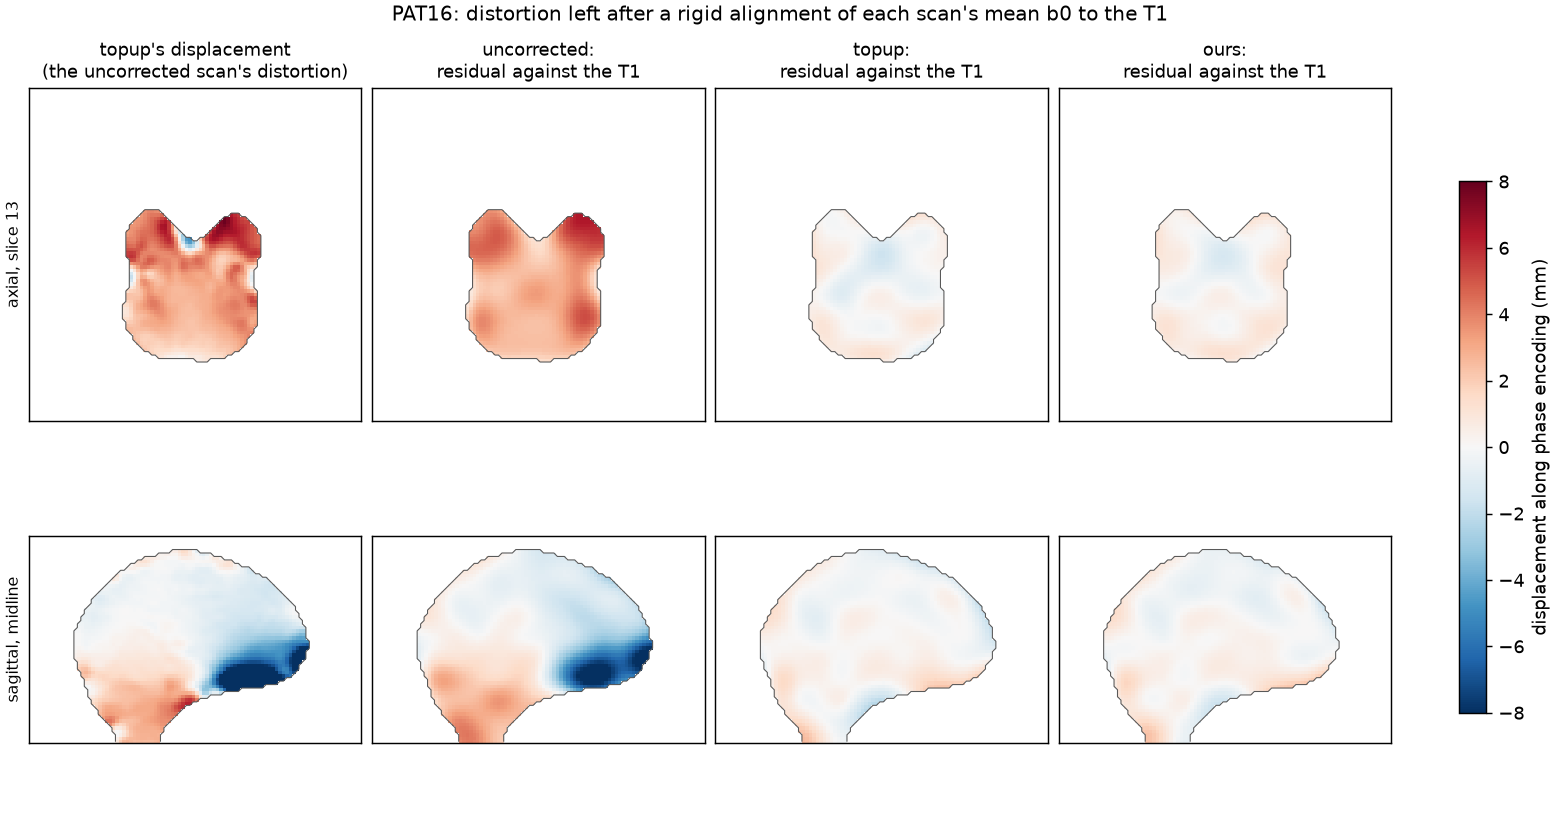
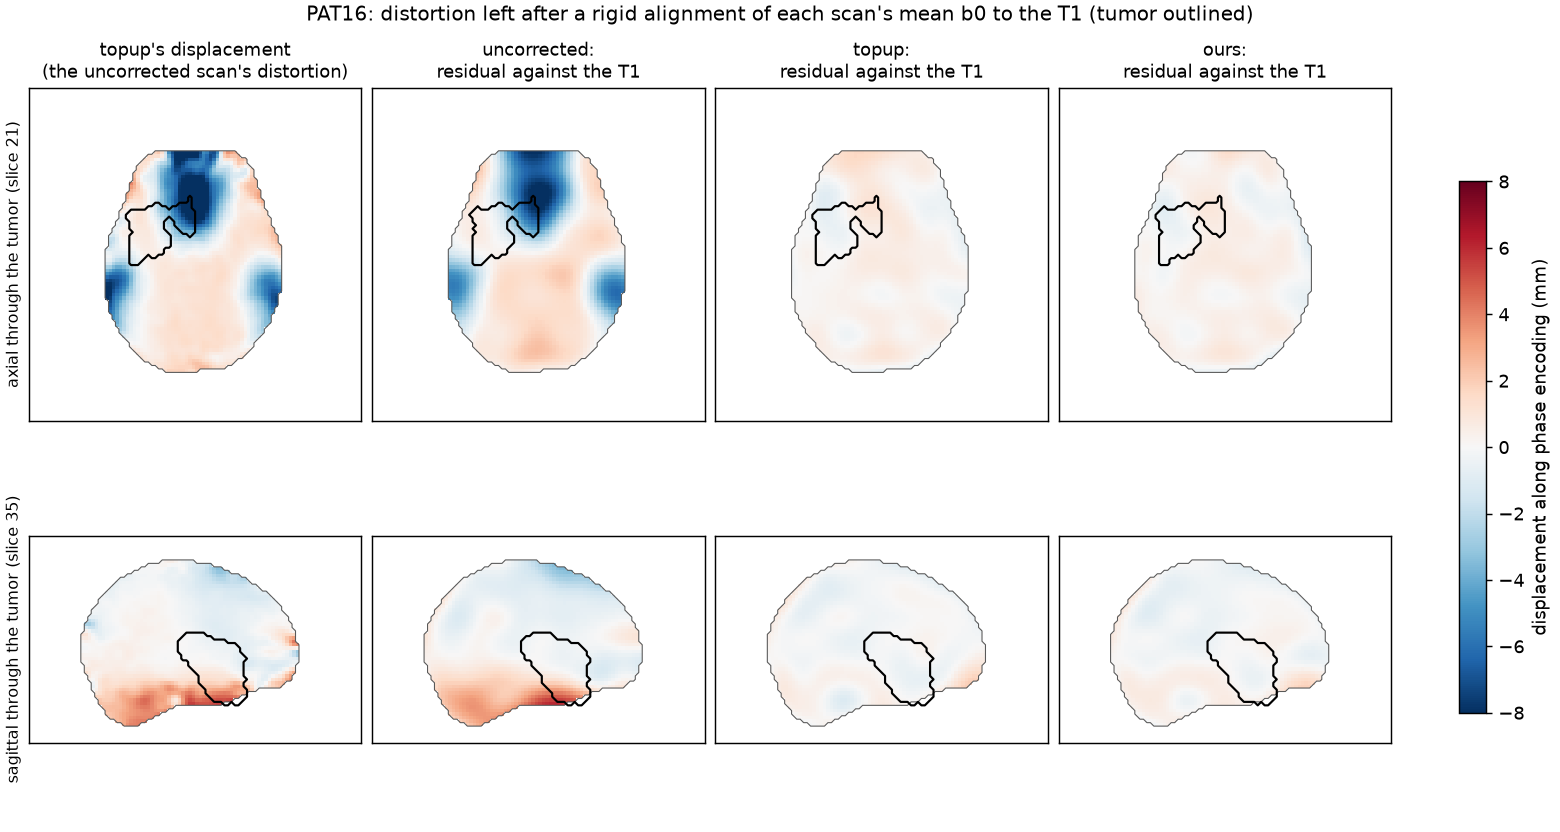
tractography: PAT16's tumor borders both distortion lobes; uncorrected its margin is off by up to 16 mm, corrected under 2

diff --git a/t1_alignment.py b/t1_alignment.py
@@ -17,14 +17,18 @@ would be off by.
   - validation: the uncorrected arm's d against topup's own displacement (field x readout x voxel):
     if the T1 recovers topup's map independently, the measure measures distortion;
   - precision: the fit repeated on b0s 1-3 and 4-6 separately, |d_a - d_b| / 2 the error of one;
-  - regions: inside the topup arm's brain mask, where topup displaces > 3 mm and elsewhere.
+  - regions: inside the topup arm's brain mask, where topup displaces > 3 mm and elsewhere; the
+    tumor (ds001226 derivatives/tumor_masks, manual + disconnectome, on the T1; its array is stored
+    left-right flipped against the T1's with a header to match: read by its header it covers the
+    hypointense lesion, by voxel order the healthy mirror) and a 10 mm margin around it, each
+    carried onto the b0 grid by the arm's own rigid fit.
 
 Writes results/t1_alignment.json and results/t1_alignment.png.
 """
 import json, time
 from pathlib import Path
 import numpy as np, nibabel as nib, nrrd
-from scipy.ndimage import binary_dilation
+from scipy.ndimage import binary_dilation, affine_transform, distance_transform_edt
 import torch
 import _susc as S
 
@@ -55,6 +59,11 @@ side = json.loads((SUB / "dwi/sub-PAT16_ses-preop_acq-AP_dwi.json").read_text())
 h_topup = np.asarray(nib.load(DER / "PAT16/topup/field_hz.nii.gz").dataobj, dtype=np.float64)
 d_topup = -1 * side["TotalReadoutTime"] * h_topup * vox[PE]               # mm, j-: the AP scan's displacement
 big = topup_mask & (np.abs(d_topup) > 3)
+tm = nib.load(TD / "derivatives/tumor_masks/sub-PAT16/anat/sub-PAT16_space_T1_label-tumor.nii")
+Mt = np.linalg.inv(tm.affine) @ t1img.affine                            # T1 voxel -> mask voxel, by the headers
+tumor_t1 = affine_transform(np.asarray(tm.dataobj, float), Mt[:3, :3], Mt[:3, 3], order=1) > 0.5
+dist = distance_transform_edt(~tumor_t1, sampling=t1img.header.get_zooms()[:3])
+margin_t1 = (dist > 0) & (dist <= 10)
 
 # ------------------------------------------------------------------ the fit
 
@@ -74,10 +83,10 @@ def sample(img, vx):
     return torch.nn.functional.grid_sample(img[None, None], g[None], mode="bilinear", padding_mode="zeros", align_corners=True)[0, 0]
 
 
-def t1_on_grid(T):
-    """The T1 resampled on the b0 grid by T (4x4: b0 world -> T1 world)."""
+def t1_on_grid(T, img=None):
+    """The T1 (or another image on its grid) resampled on the b0 grid by T (4x4: b0 world -> T1 world)."""
     w = world @ T[:3, :3].T + T[:3, 3]
-    return sample(T1s, w @ Ainv_t1[:3, :3].T + Ainv_t1[:3, 3])
+    return sample(T1s if img is None else img, w @ Ainv_t1[:3, :3].T + Ainv_t1[:3, 3])
 
 
 def ngf(a, b, mask):
@@ -163,6 +172,8 @@ def stats(x, m):
 
 
 res = {"data": "ds001226 PAT16: mean AP b0 of each arm against the T1w (MPRAGE 1 mm)",
+       "tumor": {"volume_cm3_on_T1": round(float(tumor_t1.sum()) / 1000, 1), "centroid_ras_mm": [round(float(v), 1) for v in t1img.affine[:3, :3] @ np.argwhere(tumor_t1).mean(0) + t1img.affine[:3, 3]],
+                 "t1_mean_inside_vs_mirror": [round(float(t1[tumor_t1].mean()), 1), round(float(t1[tumor_t1[::-1]].mean()), 1)]},
        "regions": {"brain_voxels": int(topup_mask.sum()), "topup_displaces_gt_3mm_voxels": int(big.sum())},
        "columns": "|residual displacement| along PE, mm: median / 90th / 99th percentile", "arms": {}}
 fields = {}
@@ -178,7 +189,14 @@ for name, path in ARMS.items():
     db, _, _ = fit(b0s[..., 3:].mean(-1), T0)
     err = np.abs(da - db) / 2
     fields[name] = d
+    tumor = (t1_on_grid(T, torch.as_tensor(tumor_t1, dtype=dt)) > 0.5).numpy()
+    margin = (t1_on_grid(T, torch.as_tensor(margin_t1, dtype=dt)) > 0.5).numpy() & topup_mask & ~tumor
+    fields[name + "_T"] = T.numpy(); fields[name + "_tumor"] = tumor; fields[name + "_margin"] = margin
     res["arms"][name] = {
+        "residual_tumor": stats(d, tumor), "residual_tumor_margin_10mm": stats(d, margin),
+        "topup_displacement_tumor": stats(d_topup - np.median(d_topup[topup_mask]), tumor),
+        "topup_displacement_tumor_margin_10mm": stats(d_topup - np.median(d_topup[topup_mask]), margin),
+        "tumor_voxels": int(tumor.sum()), "margin_voxels": int(margin.sum()),
         "residual_brain": stats(d, topup_mask), "residual_where_topup_gt_3mm": stats(d, big), "residual_elsewhere": stats(d, topup_mask & ~big),
         "half_split_error_brain": stats(err, topup_mask), "half_split_error_where_topup_gt_3mm": stats(err, big),
         "ngf_rigid_only": round(rigid_only_ngf(b0, T0), 5), "ngf_after": log[-1]["ngf"],

diff --git a/t1_alignment_figure.py b/t1_alignment_figure.py
@@ -1,7 +1,9 @@
 """results/t1_alignment.png from t1_alignment.py's fields: topup's displacement of the AP scan (what
 the T1 should find in the uncorrected arm), and each arm's residual displacement against the T1,
-one axial slice (the one with the most voxels topup displaces > 3 mm) and the mid-sagittal slice.
-Neurological orientation (patient's left on the image's right), anterior up (axial) or right (sagittal).
+an axial and a sagittal slice through the tumor's center, the tumor outlined in black (carried onto
+each arm's grid by its own rigid fit). The b0 grid's i axis runs to the patient's left: the axial
+slice is shown with the patient's right on the image's left (radiological), anterior up; the sagittal
+with anterior to the right.
 
     DATA/.venv/bin/python bench/tractography/t1_alignment_figure.py
 """
@@ -16,16 +18,18 @@ m = F["mask"]
 dt = F["d_topup"] - np.median(F["d_topup"][m])                  # as the residuals: uniform shift to the rigid fit
 panels = [("topup's displacement\n(the uncorrected scan's distortion)", dt), ("uncorrected:\nresidual against the T1", F["uncorrected"]),
           ("topup:\nresidual against the T1", F["topup"]), ("ours:\nresidual against the T1", F["ours"])]
-k = int(np.argmax((m & (np.abs(F["d_topup"]) > 3)).sum((0, 1))))
-i = m.shape[0] // 2
+tum = {"topup's displacement": F["topup_tumor"], "uncorrected": F["uncorrected_tumor"], "topup": F["topup_tumor"], "ours": F["ours_tumor"]}
+i, _, k = np.round(np.argwhere(F["topup_tumor"]).mean(0)).astype(int)
 fig, ax = plt.subplots(2, 4, figsize=(12, 6.4), constrained_layout=True)
 for c, (title, d) in enumerate(panels):
-    for r, (sl, mk) in enumerate(((d[:, :, k], m[:, :, k]), (d[i], m[i]))):
+    tu = list(tum.values())[c]
+    for r, (sl, mk, tt) in enumerate(((d[:, :, k], m[:, :, k], tu[:, :, k]), (d[i], m[i], tu[i]))):
         im = ax[r, c].imshow(np.where(mk, sl, np.nan).T, origin="lower", cmap="RdBu_r", vmin=-8, vmax=8, interpolation="nearest")
         ax[r, c].contour(mk.T, levels=[0.5], colors="0.35", linewidths=0.6)
+        ax[r, c].contour(tt.T.astype(float), levels=[0.5], colors="k", linewidths=1.2)
         ax[r, c].set_xticks([]); ax[r, c].set_yticks([])
     ax[0, c].set_title(title, fontsize=10)
-ax[0, 0].set_ylabel(f"axial, slice {k}", fontsize=9); ax[1, 0].set_ylabel("sagittal, midline", fontsize=9)
+ax[0, 0].set_ylabel(f"axial through the tumor (slice {k})", fontsize=9); ax[1, 0].set_ylabel(f"sagittal through the tumor (slice {i})", fontsize=9)
 fig.colorbar(im, ax=ax, shrink=0.7, label="displacement along phase encoding (mm)")
-fig.suptitle("PAT16: distortion left after a rigid alignment of each scan's mean b0 to the T1", fontsize=11)
+fig.suptitle("PAT16: distortion left after a rigid alignment of each scan's mean b0 to the T1 (tumor outlined)", fontsize=11)
 fig.savefig(HERE / "results/t1_alignment.png", dpi=130)

diff --git a/results/NOTES.md b/results/NOTES.md
@@ -947,3 +947,25 @@ T2-weighted b0). The residual is what an overlay on the T1 would be off by. ~2 m
   by under 2 mm almost everywhere. Within diffusion space the tract centers barely moved (previous
   entry); against the anatomy they do. Correction belongs in any pipeline whose tracts are shown
   on a T1.
+
+### PAT16's tumor against the distortion
+
+ds001226 `participants.tsv`: anaplastic astrocytoma II-III, 50 cm3, fronto-temporal. The dataset's
+mask (`derivatives/tumor_masks/sub-PAT16/anat/sub-PAT16_space_T1_label-tumor.nii`, manual +
+disconnectome; its array stored left-right flipped against the T1's, its header matching: read by
+the header it covers the hypointense lesion, T1 mean 159.5 against 209.5 in the mirror region):
+45 cm3, centroid RAS (31, 36, -13) mm: **right** anterior temporal lobe, insula and frontal
+operculum. It borders both distortion lobes: the orbitofrontal one medially (displaced ~ -8 mm),
+the temporal-base one inferiorly (+6-8 mm). Carried onto each arm's grid by its own rigid fit
+(`t1_alignment.json`, the figure now cuts through and outlines it):
+
+| |mm, median / 90th / 99th | tumor | 10 mm margin around it |
+|---|---|---|---|
+| topup's displacement of the scan (median over brain removed) | | 1.0 / 5.3 / 12.3 | 1.2 / 6.0 / 16.3 |
+| residual against the T1 | uncorrected | 0.7 / 4.6 / 7.5 | 1.0 / 4.9 / 8.6 |
+| | topup | 0.2 / 0.8 / 1.4 | 0.3 / 0.9 / 1.9 |
+| | ours | 0.2 / 0.7 / 1.2 | 0.4 / 0.8 / 2.0 |
+
+Uncorrected, a tenth of the tumor and its margin would be drawn 5-16 mm from where the T1 shows
+it (the T1 measure recovers about 0.78 of that); corrected, under 2 mm throughout, ours and topup
+alike. The margin is where the uncinate, IFOF and arcuate run past it.
